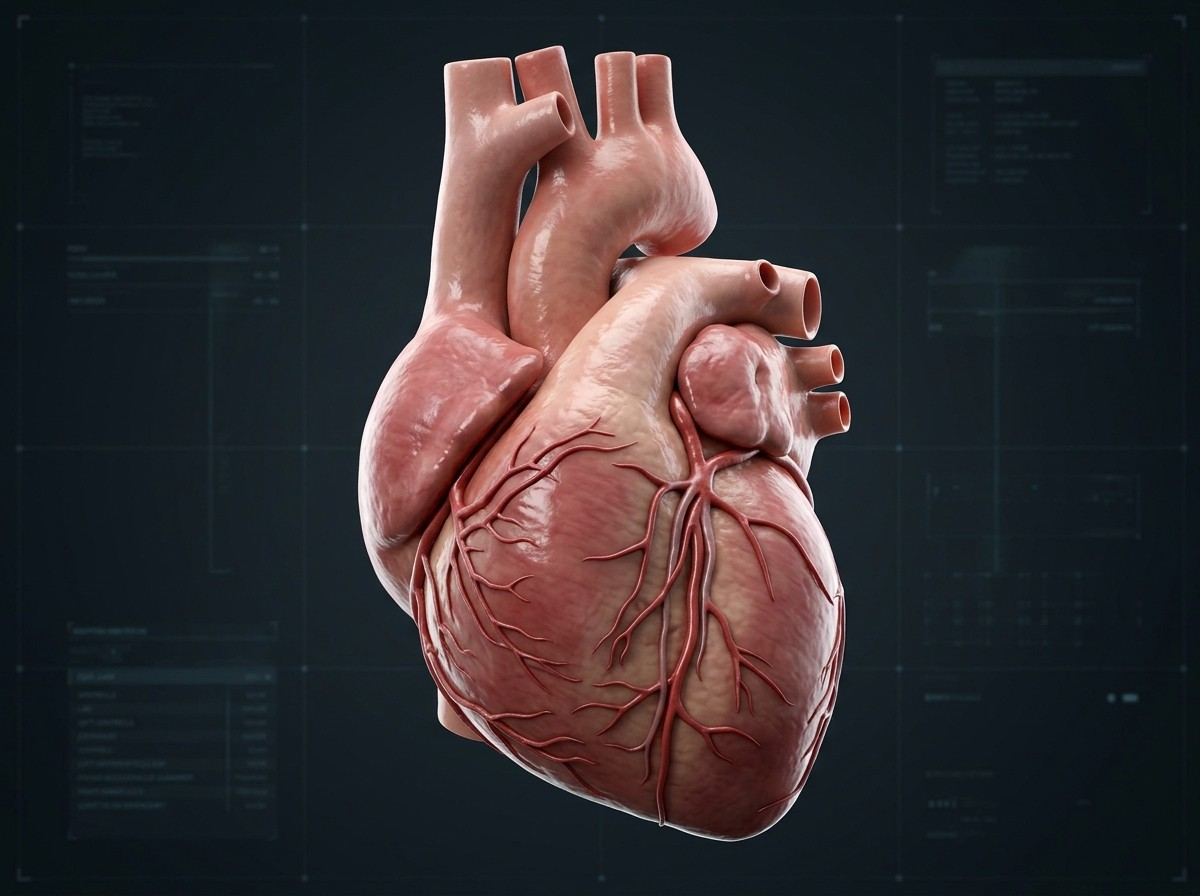
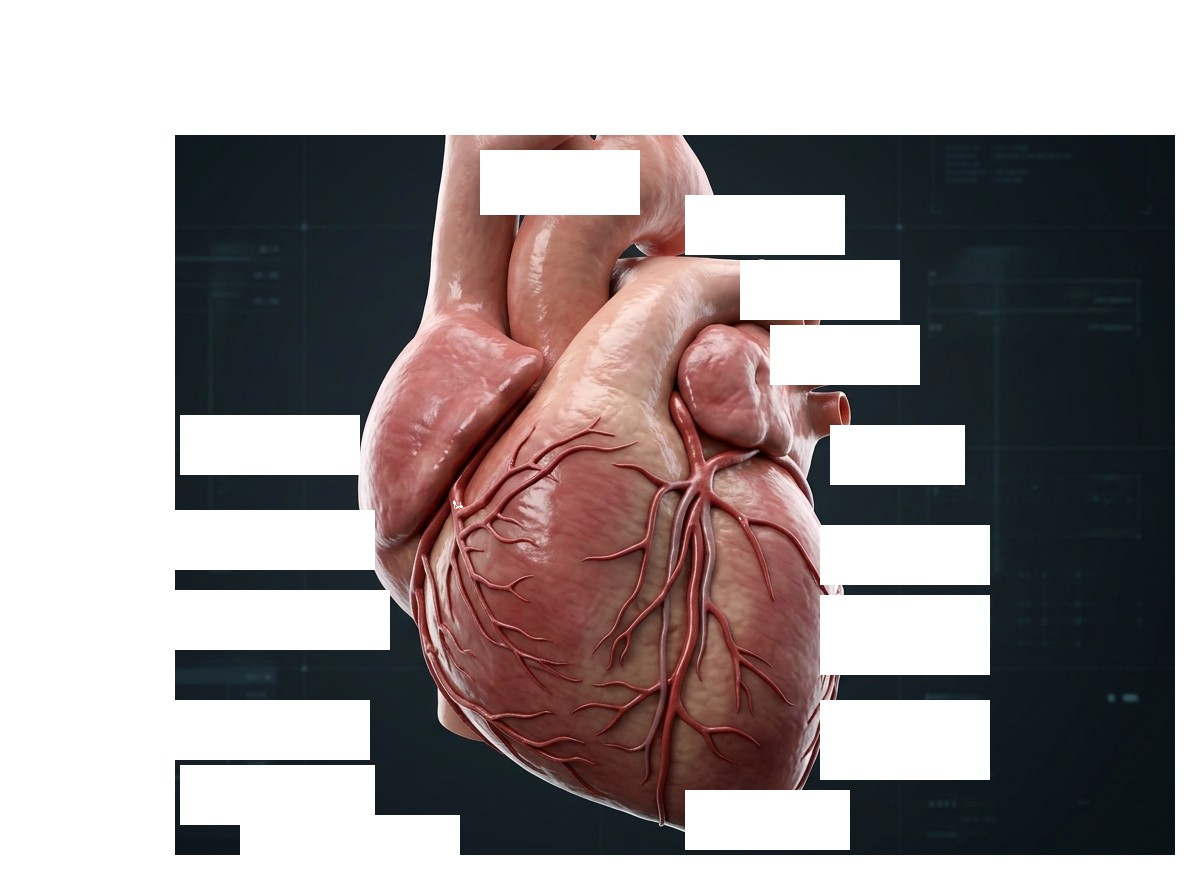
feat(heart-map): use exact slide cross-section heart drawing with internal anatomical labels while preserving arrow coordinates

diff --git a/js/heart-map.js b/js/heart-map.js
@@ -125,7 +125,7 @@ export class HeartMap {
 
         <!-- 【高精細・解剖断面3D立体心臓イラスト (参考画像PPTと100%同一解剖構造)】 -->
         <g mask="url(#heart-vignette)">
-          <image href="assets/heart_3d_cross_section.jpg?v=10" x="0" y="0" width="1200" height="896" preserveAspectRatio="none" opacity="0.98"/>
+          <image href="assets/heart_3d_cross_section.jpg?v=12" x="0" y="0" width="1200" height="896" preserveAspectRatio="none" opacity="0.98"/>
         </g>
 
         <!-- ================= 起源部位マーカー & 視認性極大化赤枠ラベル ================= -->
